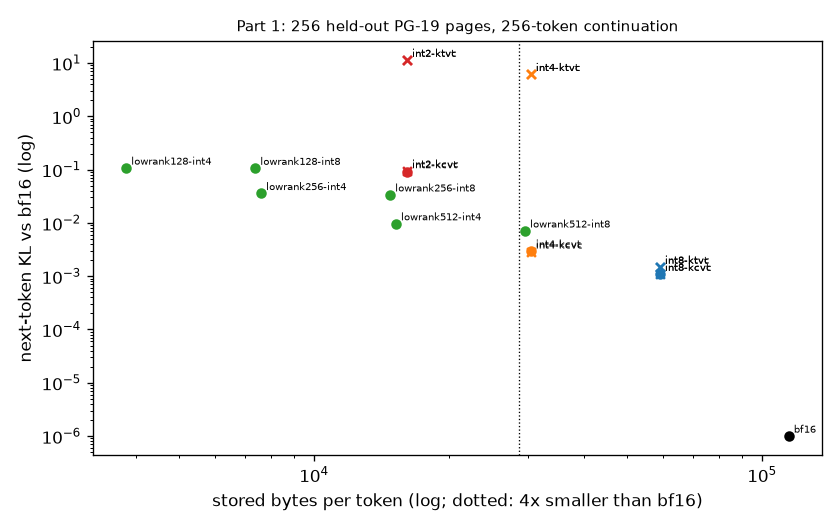
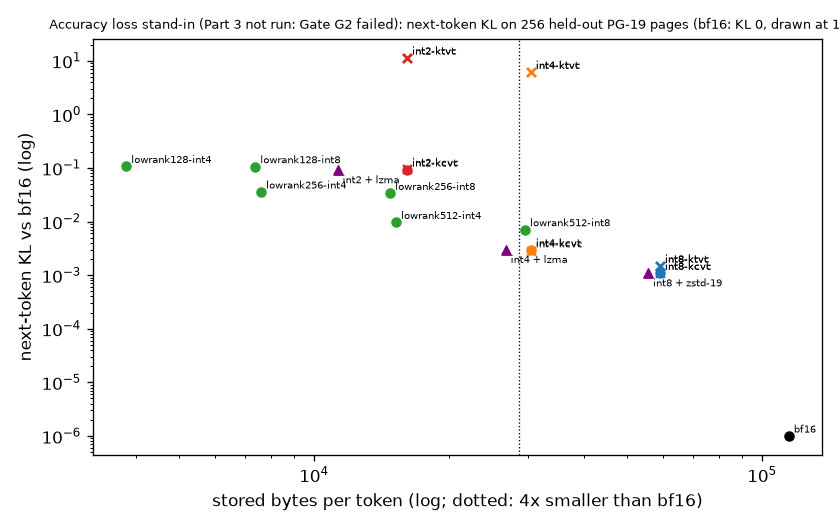
A7: report (Parts 1, 2 and 4; Part 3 replaced by fidelity measures because Gate G2 failed), Pareto plot, configs/pcm_kv.yaml with int4 as the default codec

diff --git a/scripts/a7_summary.py b/scripts/a7_summary.py
@@ -192,12 +192,20 @@ def main() -> int:
             marker = "o" if c.endswith("kcvt") or not c.startswith("int") else "x"
             ax.scatter(v["bytes_per_token"], max(v["kl"]["mean"], 1e-6), color=color, marker=marker, s=28)
             ax.annotate(c, (v["bytes_per_token"], max(v["kl"]["mean"], 1e-6)), fontsize=6, xytext=(3, 2), textcoords="offset points")
+        # A lossless coder leaves the decoded cache, hence the KL, unchanged: int8/int4/int2 (KIVI) + the best coder of Part 2.
+        for q in ("int8", "int4", "int2"):
+            best = max(((v["ratio"], k) for k, v in part2.items() if k.startswith(q + "|")), default=None)
+            if best and f"{q}-kcvt" in part1:
+                bpt = part2[best[1]]["bytes_per_token_after"]
+                kl = part1[f"{q}-kcvt"]["kl"]["mean"]
+                ax.scatter(bpt, kl, color="purple", marker="^", s=30)
+                ax.annotate(f"{q} + {best[1].split('|')[1]}", (bpt, kl), fontsize=6, xytext=(3, -8), textcoords="offset points")
         ax.axvline(BF16_PER_TOKEN / 4, color="black", linestyle=":", linewidth=0.8)
         ax.set_xscale("log")
         ax.set_yscale("log")
         ax.set_xlabel("stored bytes per token (log; dotted: 4x smaller than bf16)")
         ax.set_ylabel("next-token KL vs bf16 (log)")
-        ax.set_title("Part 1: 256 held-out PG-19 pages, 256-token continuation", fontsize=9)
+        ax.set_title("Accuracy loss stand-in (Part 3 not run: Gate G2 failed): next-token KL on 256 held-out PG-19 pages (bf16: KL 0, drawn at 1e-6)", fontsize=8)
         if part3:
             ax = axes[1]
             for k, d in part3.items():

diff --git a/reports/A7_codecs.md b/reports/A7_codecs.md
@@ -1,0 +1,276 @@
+# A7 — Pillar 3, the store: compaction (E7)
+
+Dates: 2026-11-25 to 2026-11-27. Machine: local workstation (RTX 3090, 24 GB). Reader: Qwen3-1.7B, bf16.
+
+KV mode keeps every page's key/value cache. In bf16 that is 114,688 bytes per token, 28 GiB for a 256K-token document:
+more than the card holds beside the model (A6, section 7). A7 measures how far the store can be compacted
+(specification, section 4.6), and with which codecs:
+
+- **Uniform quantization** to 8, 4 or 2 bits, with keys and values grouped per channel or per token. KIVI's layout is
+  keys per channel, values per token.
+- **Low rank:** a PCA basis per layer, keeping r of the 1,024 dimensions, with quantized coefficients.
+- **Lossless coders** (zstd, LZ4, LZMA, DEFLATE, PPMd) on raw bf16 bytes and on the quantized codes.
+- **Text:** keep only the token ids and recompute the cache when the page is needed.
+
+Hypothesis H4: a codec gives at least 4× reduction at no more than 1 point of accuracy loss; lossless coders alone on raw
+bf16 KV were expected below 1.15×.
+
+Every number below is read from a file under `results/`:
+
+| File | What it holds |
+|---|---|
+| `results/E7_codecs/pages.json`, `basis.json` | the PG-19 page lists and the fitted low-rank bases (explained variance; the basis file itself, 118 MB, is in the git-ignored cache, identified by its SHA-256) |
+| `results/E7_codecs/part1.jsonl` | Part 1: 20 codecs on 256 held-out pages (5,120 rows) |
+| `results/E7_codecs/timing.jsonl` | encode and decode times per page, on an otherwise idle GPU (640 rows) |
+| `results/E7_codecs/part2.jsonl` | Part 2: lossless coders (112 rows) |
+| `results/E7_codecs/part4.jsonl` | Part 4: a 256K document's store, expansion latency, VRAM |
+| `results/E7_codecs/coder_choice.json`, `lowrank_choice.json` | the two choices made by rules fixed before the runs |
+| `results/A7_codecs/summary.json`, `tables.md`, `figures/pareto.png` | every table and figure here, by `scripts/a7_summary.py` |
+
+**Code commits.** Part 1 and timing `2522827`, Part 2 `4f26a19`, Part 4 `ab1881b`. The codec code is the same in all
+three: the commits between them change only the run script's choice of coders and the timing stage. No row failed.
+Decisions: D-049 (codecs, pages, measures) and D-050 (Part 3).
+
+## 1. Outcome
+
+- **Part 3 (task accuracy per codec) was not run, because Gate G2 failed in A6.** As the prompt says, Part 1's fidelity
+  measures stand in for accuracy loss: next-token KL and top-1 agreement against the bf16 cache. **H4's "at most 1 point"
+  therefore cannot be tested here.** What follows answers H4 on fidelity only.
+- **The best 4× option is int4 (KIVI) plus any fast lossless coder.**
+  - int4 alone is 3.76× smaller. Its float16 scales cost 0.25 bit per element, which keeps it just under 4×.
+  - Its fidelity is the best of any codec at or near 4×: next-token KL 0.0030, the same top-1 token 97.4% of the time.
+  - A lossless coder on its payload takes it to 4.24–4.29× (zstd-3: 4.26×) and changes nothing decoded.
+  - Past 4×, low-rank 512 + int4 gives 7.5× at KL 0.0097 (top-1 95.5%). int2 gives 7.1× at KL 0.092 (top-1 86%).
+- **Keys must be quantized per channel.**
+  - Per-token keys destroy the model: int4 gives KL 6.1 and top-1 13%; int2 gives KL 11.4.
+  - For values, per token and per channel are nearly equivalent.
+- **Lossless coders alone on raw bf16 KV beat the expected 1.15×.**
+  - zstd-3 1.28×, LZMA 1.39×; LZ4 adds nothing (1.01×).
+  - Splitting the bf16 bytes into two byte planes first raises this to 1.17–1.49× (zstd-19: 1.49×).
+  - This is still far from the 4× that quantization gives, and slow: zstd-19 compresses at 2 MB/s.
+- **Part 4, a 256K document (7.45 GiB with int4):**
+  - The int4, int2 and low-rank stores fit on the 24 GiB card beside the model and a 32K window. bf16 (28 GiB) and int8
+    (14.4 GiB) do not.
+  - Decompressing a full budget of 28,672 tokens takes 1.1 s with int4, against 5.4 s to recompute it from text.
+- **Default codec:** int4 (KIVI) in `configs/pcm_kv.yaml`. Text mode stays PCM's default mode (A6, Gate G2).
+
+## 2. Setup (D-049)
+
+- **Pages and prefix:** pages of 1,024 tokens from PG-19 books, each encoded after a 43-token shared prefix P, exactly as
+  KV mode encodes pages.
+- **Calibration:** 64 windows from 36 validation books (65,536 tokens), used to fit the low-rank bases.
+- **Held-out pages:** 256 windows, each a page plus the next 256 tokens of the book, from 83 test books. The two sets of
+  books are disjoint. No benchmark document or question was used to fit anything.
+- **Low rank:** keys are stored after RoPE, so each key is first rotated back to position 0. One basis then serves every
+  position.
+- **Explained variance** (mean over layers, worst layer in brackets):
+
+  | | r = 128 | r = 256 | r = 512 |
+  |---|---|---|---|
+  | keys | 0.901 [0.786] | 0.956 [0.886] | 0.990 [0.966] |
+  | values | 0.707 [0.526] | 0.844 [0.701] | 0.951 [0.886] |
+
+  Keys are far more compressible than values.
+- **Size accounting:** sizes count everything stored, codes and the quantization parameters (float16 minimum and step per
+  group of 128 values). Bases are counted once per store.
+
+## 3. Part 1: storage and fidelity (256 held-out pages)
+
+**What the columns are:**
+- **KL and top-1:** for each page, the next 256 tokens of the book were fed after P + the decoded page. The table gives
+  the KL from the bf16 distributions and the share of positions with the same top token (mean, 95% CI over pages).
+- **Relative error:** ‖decoded − bf16‖ / ‖bf16‖ over all layers.
+- **Encode and decode times:** per 1,024-token page, median over 32 pages of 5 repeats each, on an idle GPU.
+
+| codec | bytes/token | ratio | encode ms | decode ms | rel. error K | rel. error V | next-token KL | top-1 agreement |
+|---|---|---|---|---|---|---|---|---|
+| bf16 | 114,688 | 1.00 | 0.4 | 0.3 | 0 | 0 | 0 | 1.000 |
+| int8 (KIVI: kcvt) | 59,136 | 1.94 | 32.9 | 14.2 | 0.0018 | 0.0065 | 0.00110 [0.00108, 0.00111] | 0.984 [0.983, 0.985] |
+| int8 kcvc | 59,136 | 1.94 | 33.4 | 18.6 | 0.0018 | 0.0066 | 0.00109 [0.00107, 0.00111] | 0.985 |
+| int8 ktvc / ktvt | 59,136 | 1.94 | 32.5–32.9 | 9.9–14.3 | 0.0140 | 0.0065–0.0066 | 0.00147–0.00150 | 0.981–0.982 |
+| **int4 (KIVI: kcvt)** | 30,464 | 3.76 | 33.2 | 14.6 | 0.0322 | 0.1061 | **0.00300** [0.00288, 0.00314] | **0.974** [0.973, 0.976] |
+| int4 kcvc | 30,464 | 3.76 | 33.7 | 18.9 | 0.0322 | 0.1096 | 0.00286 [0.00275, 0.00297] | 0.974 |
+| int4 ktvc / ktvt (keys per token) | 30,464 | 3.76 | 33.0–33.2 | 10.3–14.6 | 0.2383 | 0.106–0.110 | 6.14–6.15 | 0.128 |
+| lowrank512-int8 | 29,568 | 3.88 | 78.0 | 59.2 | 0.0308 | 0.2052 | 0.00709 [0.00679, 0.00741] | 0.961 |
+| int2 (KIVI: kcvt) | 16,128 | 7.11 | 33.7 | 14.8 | 0.1629 | 0.5326 | 0.0919 [0.0884, 0.0954] | 0.862 |
+| int2 kcvc | 16,128 | 7.11 | 34.0 | 19.1 | 0.1629 | 0.5516 | 0.0951 | 0.858 |
+| int2 ktvc / ktvt | 16,128 | 7.11 | 33.2–33.6 | 10.5–14.8 | 1.2374 | 0.53–0.55 | 11.31–11.39 | 0.04 |
+| **lowrank512-int4** | 15,232 | 7.53 | 77.6 | 60.8 | 0.0429 | 0.2313 | **0.00967** [0.00927, 0.01010] | 0.955 |
+| lowrank256-int8 | 14,784 | 7.76 | 78.6 | 59.7 | 0.0644 | 0.3625 | 0.0337 | 0.920 |
+| lowrank256-int4 | 7,616 | 15.06 | 78.1 | 60.4 | 0.0708 | 0.3765 | 0.0358 | 0.917 |
+| lowrank128-int8 | 7,392 | 15.52 | 78.2 | 59.7 | 0.0963 | 0.5084 | 0.1061 | 0.867 |
+| lowrank128-int4 | 3,808 | 30.12 | 77.7 | 60.3 | 0.1004 | 0.5170 | 0.1072 | 0.866 |
+| text (token ids) | 4 | 28,672 | 0.1 | 87.5 (re-encode) | 0 | 0 | 0 | 1.000 |
+
+**Shared bases** (stored once per store): 58.8 MB at r = 512, 29.5 MB at r = 256, 14.8 MB at r = 128. All granularities
+and CIs are in `tables.md`.
+
+**Granularity.**
+- **Keys:** the key vectors carry a few channels of very large magnitude (A1: values up to 480). Per-token quantization
+  stretches every token's range over those channels and wipes out the rest, so key error jumps 7–8× and the model breaks.
+- **Values** have no such channels; per token and per channel differ by 1–4% in error.
+- KIVI's pairing (keys per channel, values per token) is the right one; keys and values both per channel is equivalent
+  within noise.
+
+**Low rank against quantization at the same size.**
+- lowrank512-int8 (3.88×) is worse than int4 (3.76×): KL 0.0071 against 0.0030. Its value error is twice int4's,
+  because values need more than 512 of 1,024 dimensions.
+- At about 7.5×, low rank wins clearly: lowrank512-int4 has KL 0.0097, against int2's 0.092.
+
+**The "best low-rank setting" (rule fixed before Part 1):** the smallest low-rank codec whose KL is at most int4's.
+- No low-rank codec qualified, so the rule fell back to the lowest KL: **lowrank512-int8**.
+- Part 4 uses this setting. Part 3, which would also have used it, was not run.
+
+## 4. Part 2: lossless coders
+
+Ratio, with compress / decompress MB/s in brackets. KV data come from 4 held-out pages. Each page is 117 MB of raw bf16,
+or the stored payload of KIVI int8/int4/int2 (packed codes and float16 parameters). Ids and text come from the 262K-token
+Part 4 document. All coders run single-threaded.
+
+| data | MB | zstd-3 | zstd-19 | LZ4 | LZMA | DEFLATE | PPMd |
+|---|---|---|---|---|---|---|---|
+| bf16, raw | 469.8 | 1.277 (420 / 611) | 1.291 (3 / 288) | 1.008 (1,209 / 1,941) | 1.395 (2 / 29) | 1.254 (12 / 205) | not usable |
+| bf16, byte planes | 469.8 | 1.402 (140 / 530) | **1.487** (2 / 1,049) | 1.174 (502 / 1,589) | 1.473 (2 / 97) | 1.419 (8 / 375) | not usable |
+| int8 payload | 242.2 | 1.061 (282 / 804) | 1.063 (4 / 739) | 1.009 | 1.061 (3 / 22) | 1.059 | not usable |
+| int4 payload | 124.8 | 1.132 (385 / 683) | 1.132 (4 / 625) | 1.010 | 1.138 (3 / 23) | 1.127 (21 / 211) | not usable |
+| int2 payload | 66.1 | 1.376 (144 / 745) | 1.385 (3 / 593) | 1.014 | 1.430 (2 / 27) | 1.342 (15 / 188) | not usable |
+| token ids (uint32) | 1.0 | 2.558 | 2.955 | 1.688 | 3.322 | 2.460 | 3.612 (5 / 8) |
+| text (UTF-8) | 1.1 | 2.715 | 3.170 | 1.599 | 3.221 | 2.627 | 3.949 (5 / 9) |
+
+What each stage becomes, in bytes per token and ratio against bf16:
+
+| stage | alone | + zstd-3 | + best coder |
+|---|---|---|---|
+| bf16 | 114,688 (1.00×) | 89,825 (1.28×) | 77,149 (1.49×, byte planes + zstd-19) |
+| int8 | 59,136 (1.94×) | 55,755 (2.06×) | 55,621 (2.06×, zstd-19) |
+| int4 | 30,464 (3.76×) | 26,913 (**4.26×**) | 26,758 (4.29×, LZMA) |
+| int2 | 16,128 (7.11×) | 11,725 (9.78×) | 11,281 (10.17×, LZMA) |
+| text (token ids) | 4 | 1.56 | 1.11 (PPMd) |
+
+**Why raw bf16 compresses better than expected.** Each bf16 number has a high byte (sign and 7 exponent bits) and a low
+byte (1 exponent bit, 7 mantissa bits). KV values sit in a narrow range of exponents, so the high bytes repeat and the
+low bytes look random. Splitting the bytes into planes lets the coder see the repetitive half on its own, hence
+1.4–1.49×. Every round trip was verified byte for byte, so this is not a measurement slip. Quantization removes exactly
+that redundancy:
+- int8 codes compress by only 6%, int4 by 13%.
+- int2 compresses by 34–43%, because 2-bit codes take few distinct values per byte.
+
+**Coder for "int4 + lossless" (rule fixed before Part 2):** the highest ratio among coders that decompress at ≥ 200 MB/s.
+It picked zstd-19 over zstd-3 by 1.1321 to 1.1320, with 100× slower compression (4 against 385 MB/s). In practice zstd-3
+gives the same store.
+
+**PPMd** (`pyppmd` 1.3.1) is not usable on KV data on this machine (D-049).
+- Its PPMd8 path rejects its own output above 64 KiB.
+- Its PPMd7 path crashed the interpreter on a 30 MB stream, decoded one of eight 4 MiB blocks short and wrong, and raised
+  errors on 1 MiB blocks.
+- It is reported only for token ids and text, where every round trip was verified; there it compresses best (3.6× and
+  3.9×) but runs at 5–9 MB/s.
+
+## 5. Part 3: task accuracy
+
+Not run. **Gate G2 failed** (A6: KV mode 18–20 points below text mode with the best training-free fix), and the prompt
+says to give Part 1's fidelity measures instead (D-050 (6)). The next-token KL and top-1 agreement above are that
+substitute, and the Pareto plot (section 7) uses KL in place of accuracy loss. A KL of 0.003 (int4) is small against the
+KL of 1.7–1.8 nats between stitched and sequential caches measured in A6. So in KV mode, compaction is not where the
+accuracy goes; stitching is.
+
+## 6. Part 4: the ceiling, a 256K-token document
+
+**Document:** S2 multi-key 256K test example 0, 261,618 tokens, 511 pages of 512 tokens (as `configs/pcm_text.yaml`
+cuts it). Store size per codec, and whether the whole store fits on the card beside the model and an active window:
+- **Weights:** 3.20 GiB.
+- **32K window:** 3.50 GiB in bf16.
+- **Card:** 24.0 GiB.
+- **What was measured:** every page held on the GPU, a full budget of pages decoded and stitched, the question prefilled
+  and 8 tokens generated.
+
+| codec | store GiB | bytes/token | store + weights + window, arithmetic | measured on the card (peak allocated / reserved GiB) |
+|---|---|---|---|---|
+| bf16 | 27.94 | 114,688 | 34.6 GiB | does not fit (not attempted) |
+| int8 | 14.44 | 59,248 | 21.1 GiB | **does not fit** (25.0 / 28.1) |
+| int4 | 7.45 | 30,576 | 14.2 GiB | **fits** (17.7 / 21.9) |
+| lowrank512-int8 | 7.23 (+58.8 MB bases) | 29,905 | 14.0 GiB | fits (17.4 / 20.5) |
+| int4 + zstd-19 | 6.60 | 27,080 | – | (CPU store; not placed on the GPU) |
+| int2 | 3.96 | 16,240 | 10.7 GiB | fits (14.1 / 17.3) |
+| text (token ids) | 0.001 | 4 | – | – |
+
+Bytes per token are slightly above Part 1's because pages here are about 512 tokens, cut at sentence ends, so their last
+group of 128 tokens is often partial.
+
+**The int8 fit criterion was set after seeing the run.**
+- By arithmetic int8 fits (21.1 GiB), and the test completed without an out-of-memory error.
+- But its peak was 25.0 GiB allocated and 28.1 GiB reserved, more than the card has. On Windows the driver spills the
+  excess into system memory, as in A4, so it ran without fitting.
+- The criterion: a store fits only if peak reserved memory stays within the card's 24 GiB.
+
+**Expansion of a full budget:** 56 pages, 28,672 tokens, spread over the document so every boundary has a gap marker;
+median of 3 runs. Decoding and stitching:
+
+| store | ms |
+|---|---|
+| bf16 (already on the GPU; the store itself does not fit) | 152 |
+| int2 | 1,081 |
+| int4 | 1,127 |
+| int8 | 1,170 |
+| lowrank512-int8 | 3,288 |
+| int4 + zstd-19 (decompressed on the CPU) | 3,293 |
+| text, each page re-encoded after P | 4,929 |
+| text mode, the same 28,672 tokens prefilled as one prompt | 5,430 |
+
+Decompressing int4 is about 5× faster than recomputing from text. The lossless coder triples int4's expansion time for an
+11% smaller store. Building the whole store with every codec took 2,045 s; most of it is zstd-19 at 4 MB/s.
+
+## 7. Pareto plot and the answer to H4
+
+![Pareto](../results/A7_codecs/figures/pareto.png)
+
+The x-axis is stored bytes per token; the y-axis is next-token KL, standing in for accuracy loss (Part 3 not run).
+- **Circles:** KIVI-granularity quantization and low rank.
+- **Crosses:** per-token keys.
+- **Triangles:** KIVI codes + the best lossless coder. Their KL equals the codes' own, since the coder is lossless.
+- **Dotted line:** 4× smaller than bf16.
+
+**H4: which codec gives at least 4× at no more than 1 point?**
+- On accuracy: not testable, because Part 3 was not run.
+- On fidelity:
+  - **int4 (KIVI) + a lossless coder** (4.24–4.29×; zstd-3 4.26×) is the 4× codec with the smallest loss measured:
+    KL 0.0030, top-1 agreement 97.4%.
+  - Beyond that, **lowrank512-int4** (7.5×, KL 0.0097, top-1 95.5%) dominates int2 (7.1×, KL 0.092).
+  - Whether either costs at most 1 point of task accuracy is open until KV mode itself works (R2, Phase B).
+- int4 alone, at 3.76×, misses 4× only because of its quantization parameters.
+
+**What lossless coders add at each stage:**
+- **raw bf16:** 1.25–1.40×, or 1.17–1.49× with byte planes. This is above the expected 1.15× but nowhere near 4×.
+- **int8:** +6%.
+- **int4:** +13%, which is what carries it over 4×.
+- **int2:** +34–43%.
+- **text:** 2.5–3.9×. Text never needed compressing: 4 bytes per token, about 1 MiB per 256K document.
+
+**Default codec.** `configs/pcm_kv.yaml` sets **int4 (KIVI)**, chosen from these results:
+- the smallest loss of any codec whose 256K store fits on the card;
+- 1.1 s expansion.
+
+A lossless coder is left off, because it adds 11% compression at three times the expansion time. KV mode itself is not
+the default (A6).
+
+## 8. What is uncertain
+
+- **No task accuracy per codec** (G2). KL on PG-19 continuations is a proxy. It ranks codecs, but cannot say how many
+  points a KL of 0.003 or 0.01 costs on the benchmarks.
+- **Small samples:**
+  - Part 2's KV ratios come from 4 pages (470 MB). Their spread across the 4 pages is small (zstd-3 on raw bf16: 1.276–1.278; zstd-19 on byte planes: 1.485–1.488), but these are 4 pages from 4 books.
+  - The low-rank bases come from 65,536 tokens of 36 books. A larger calibration set might lift the low-rank codecs.
+- **Timings** are for this GPU and CPU. The CPU coders are single-threaded.
+- **Two choices made after the data are stated as such:** the on-card fit criterion (section 6) and the default codec
+  (section 7). The rules for the best coder and the best low-rank setting were fixed before their parts ran.
+
+## 9. What was built in A7
+
+| file | what |
+|---|---|
+| `pcm/store/codecs.py` | one interface for every codec (encode, decode, stored bytes, shared bytes): bf16, uniform int8/int4/int2 at four granularities with bit packing, low rank with keys rotated to position 0 and a fitted basis, lossless coders (zstd, LZ4, LZMA, DEFLATE, PPMd) with byte planes, text |
+| `pcm/eval/runner.py` | KV mode takes a store codec (`kv.codec`); with none, bf16 as before |
+| `configs/a7_codecs.yaml`, `scripts/run_a7.py` | page lists, basis fit, Parts 1–4 and the timing pass, resumable |
+| `scripts/a7_summary.py` | every number, table and figure of this report |
+| `tests/test_codecs.py` | 24 tests: packing, error bounds, sizes, rotation, low rank, lossless round trips, text |
+| `configs/pcm_kv.yaml` | P-KV: pages of `pcm_text.yaml`, the tuned fix, the default codec |
